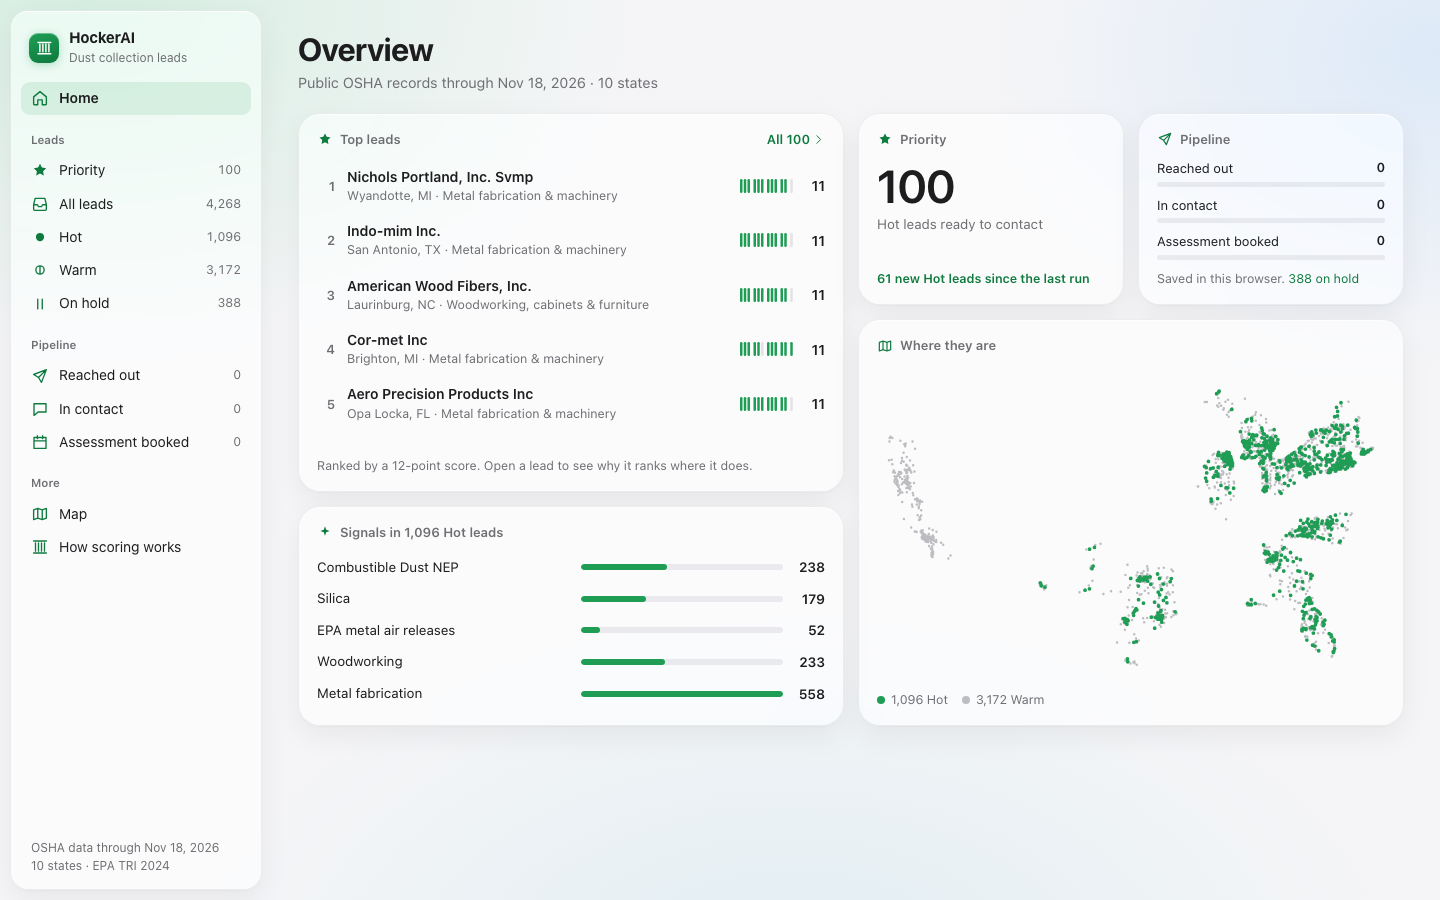
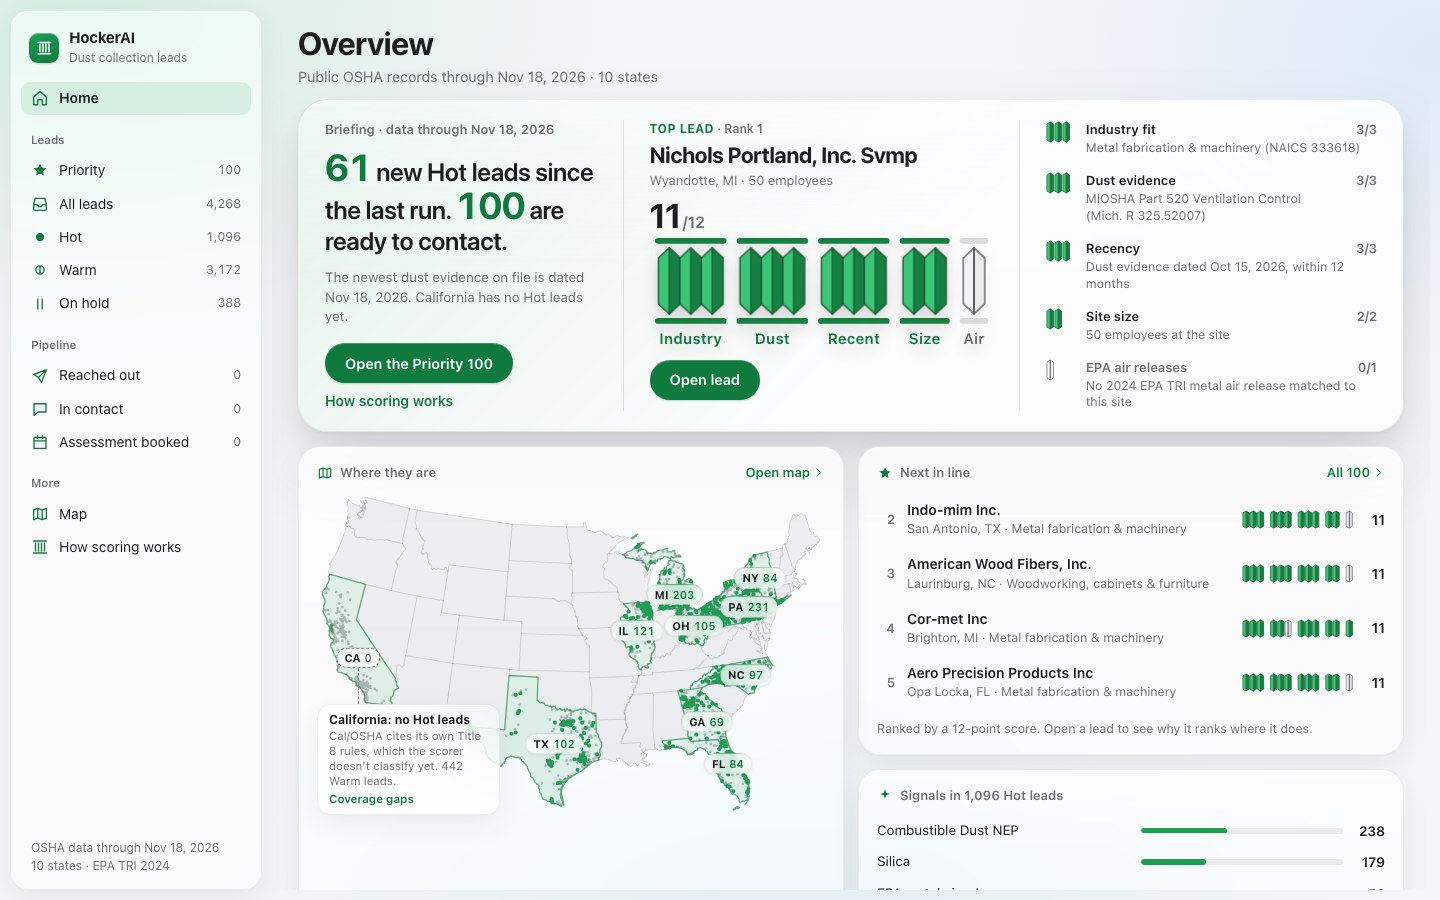
docs: refresh the dashboard screenshot and link the map source

diff --git a/README.md b/README.md
@@ -6,7 +6,7 @@ Built for Hocker North America, a dust-collection company in Stuart, Florida, wh
 
 **[Live dashboard](https://dipzinski.github.io/HockerAI/)** · [Lead report](outputs/report.md) · [Lead list (CSV)](outputs/leads.csv)
 
-![Dashboard overview: top leads with their 12-pleat score meters, priority count, pipeline, dust signals, and a dot map of leads across the ten states](docs/img/dashboard.png)
+![Dashboard overview: a briefing on new Hot leads, the top lead's 12-pleat score cartridge with the reason behind each factor, a map of leads across the ten states with state outlines, and the next leads in line](docs/img/dashboard.png)
 
 ## The problem
 
@@ -142,6 +142,7 @@ hocker/           Python package: download, load, facilities, standards, tri, ru
 sql/              DuckDB SQL: staging and features
 tests/            pytest: parsing, merging, scoring, verifier, retry loop; tests/js: dashboard logic
 docs/             GitHub Pages dashboard (index.html, assets/ CSS and JS modules, data/leads.json)
+scripts/          builds the dashboard's state outlines (docs/assets/geo) from us-atlas
 outputs/          leads.csv, report.md, run_log.json, briefs/
 v1-prompt-prototype/   the July 2026 prototype (see below)
 ```

diff --git a/docs/assets/geo/README.md b/docs/assets/geo/README.md
@@ -4,6 +4,7 @@
 
[1 lines of base64/hex data omitted]
   a TopoJSON redistribution of the US Census Bureau cartographic boundary files, 2017 edition (public domain).
+  Download: `https://cdn.jsdelivr.net/npm/us-atlas@3.0.1/states-10m.json` (check the sha256 before building).
 - **Conversion:** `node scripts/build-us-geo.mjs <states-10m.json>`. It drops Alaska, Hawaii and the territories,
   drops tiny islands, simplifies each shared arc once (Douglas-Peucker, 0.018 degrees) so neighbouring states stay
   seamless, and rounds to 0.01 degrees. Arcs are delta-encoded integers; states list rings of signed arc references.
